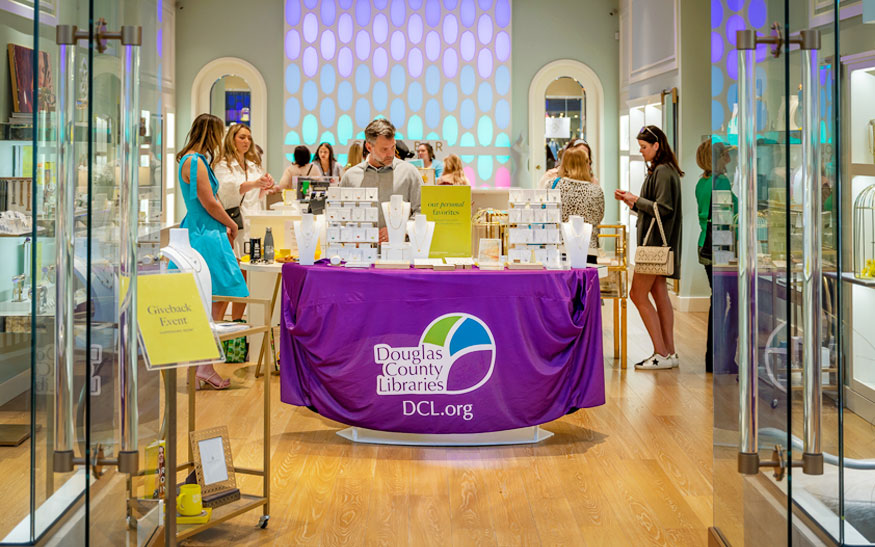
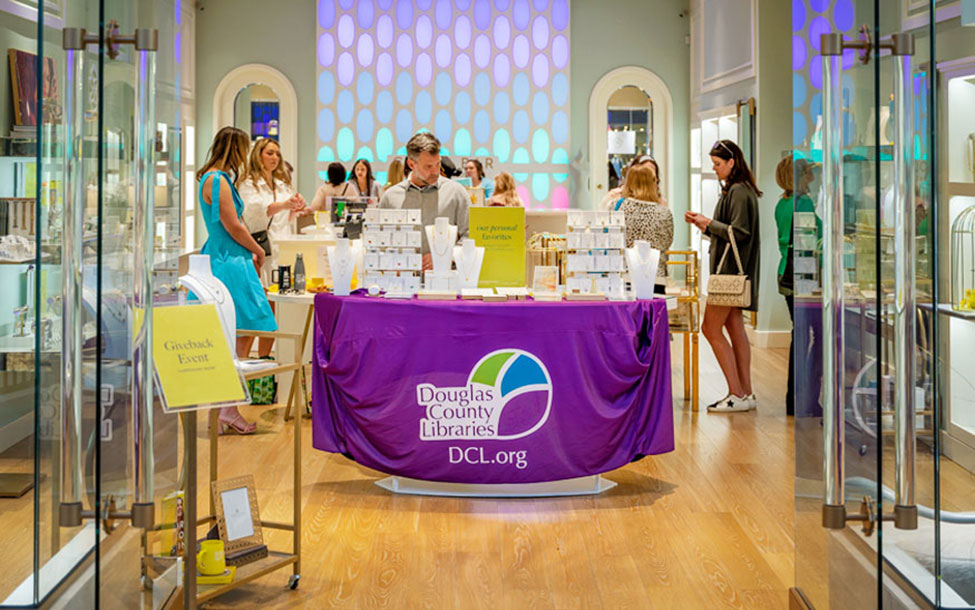
kendra scott event added

diff --git a/foundation/index.html b/foundation/index.html
@@ -1,5 +1,6 @@
 <!DOCTYPE html>
-<html lang="en"><!-- InstanceBegin template="/Templates/page.dwt" codeOutsideHTMLIsLocked="false" -->
+<html lang="en">
+<!-- InstanceBegin template="/Templates/page.dwt" codeOutsideHTMLIsLocked="false" -->
 <head>
 <meta charset="utf-8">
 <meta http-equiv="X-UA-Compatible" content="IE=edge">
@@ -475,12 +476,14 @@ height="0" width="0" style="display:none;visibility:hidden"></iframe>
       <div class="page-nav-item"><a href="#" type="button" data-toggle="modal" data-target="#contact-modal"><i class="pagenav-icon fa-solid fa-envelope"></i>Get in Touch</a></div>
     </div>
   </div>
-  <div class="row photo-wrapper-row">
+  <div id="kendra-scott" class="row photo-wrapper-row">
     <div class="photo-wrapper">
-      <div class="photo-item black text-center bg-gray-5"> <img class="img-responsive center-block" src="dolly-parton-library-of-congress.jpg" alt="Dolly Parton at the Library of Congress">
-        <div class="padding-30">
-          <div class="h3 black no-margin-top">Dolly Parton’s Imagination Library</div>
-          <div class="padding-bottom-15">Through our partnership with <a href="../imagination-library/">Dolly Parton’s Imagination Library</a>, Douglas County children from birth to age five can receive a free book each month, sent straight to their home, that they get to keep. Every eligible child in a family may participate and receive their own books, increasing the potential for learning success in school and encouraging a lifelong love of reading. </div>
+      <div class="photo-item black text-center bg-gray-5"> <img class="img-responsive center-block" src="kendra-scott-event.jpg" alt="Kendra Scott Event">
+        <div class="padding-30 max-width-80">
+          <div class="h3 black no-margin-top">Shop, Gift, Give Back</div>
+          <div class="padding-bottom-5">Shop Kendra Scott Jewelry for lasting gifts for Mother’s Day, graduation, and more&mdash;20% goes back to the DCL Foundation!</div>
+          <div class="padding-bottom-5">In-Store Park Meadows: May 4, 2-4PM</div>
+          <div class="padding-bottom-15">Online: May 4-5 only at <a href="https://www.kendrascott.com/" target="_blank">kendrascott.com</a> using code GIVEBACK-ILUVJ</div>
         </div>
       </div>
     </div>
@@ -504,6 +507,13 @@ height="0" width="0" style="display:none;visibility:hidden"></iframe>
           <div class="item-inner">
             <div class="h3 text-center">Cuddle Up & Read</div>
             <div>Through partnerships with area hospitals, <a href="../cuddle-up-and-read/">Cuddle Up & Read</a> provides new parents with a fun and meaningful introduction to the library and our early literacy services. The program includes small gifts for new parents and baby and an invitation to get baby a library card. We also distribute DCL growth charts, complete with reading suggestions and library service information, to parents through participating pediatricians’ offices across the county. </div>
+          </div>
+        </div>
+        <div class="item">
+          <div id=""><img class="img-responsive center-block" src="dolly-parton-with-children-cropped.jpg" alt="Dolly Parton with Children"></div>
+          <div class="item-inner">
+            <h3 class="text-center">Dolly Parton’s Imagination Library</h3>
+            <div>Through our partnership with <a href="../imagination-library/">Dolly Parton’s Imagination Library</a>, Douglas County children from birth to age five can receive a free book each month, sent straight to their home, that they get to keep. Every eligible child in a family may participate and receive their own books, increasing the potential for learning success in school and encouraging a lifelong love of reading. </div>
           </div>
         </div>
       </div>
@@ -747,4 +757,5 @@ e.async=true;var t=document.getElementsByTagName("script")[0];t.parentNode.inser
 </script> 
 <!-- End Patron Point -->
 </body>
-<!-- InstanceEnd --></html>
+<!-- InstanceEnd -->
+</html>

diff --git a/index.html b/index.html
@@ -97,43 +97,45 @@ width: calc(100% * 0.5);
 	margin: 0 auto;
 	padding: 0 15px 80px;
 }
-/* retro reads & readers theatre */
+/* kendra scott & readers theatre */
 	
-.icon-font.fa-sharp.fa-regular.fa-pen-to-square {
-	font-size: 80px;
-}
 .icon-font {
 	font-size: 100px;
 	padding-bottom: 30px;
 	color: #000;
 }
-.retro-charlotte-container {
+.icon-font-alt {
+	font-size: 100px;
+	padding: 14px 0 20px;
+	color: #000;
+}
+.scott-charlotte-container {
 	display: flex;
 	max-width: 1440px;
 	min-height: 400px;
 	margin: 30px auto 0 auto;
 }
-.retro-charlotte-wrapper {
+.scott-charlotte-wrapper {
 	margin: 0 auto;
 	display: flex;
 	width: 100%;
 }
-.retro-wrapper {
+.scott-wrapper {
 	display: flex;
 	background: #c4c28b;
 width: calc(100% * 0.5);
 	display: flex;
 	flex-direction: column;
-	padding: 80px 15px 60px;
+	padding: 65px 15px 60px;
 }
-.retro-content {
+.scott-content {
 	margin: 0 auto;
 	color: #000;
 	font-size: 20px;
 	text-align: center;
 	max-width: 650px;
 }
-.retro-heading-one {
+.scott-heading-one {
 	font-size: 30px;
 	line-height: 1;
 	margin: 0 0 10px;
@@ -141,11 +143,11 @@ width: calc(100% * 0.5);
 }
 .charlotte-wrapper {
 	display: flex;
-	background: #a5b696 url("spider.jpg") center top no-repeat;
+	background: #a5b696 url("spider.jpg") center -10px no-repeat;
 width: calc(100% * 0.5);
 	display: flex;
 	flex-direction: column;
-	padding: 213px 15px 60px;
+	padding: 198px 15px 60px;
 }
 .gardening-content {
 	margin: 0 auto;
@@ -287,13 +289,13 @@ width: calc(100% * 0.5);
 }
 
 @media (max-width: 950px) {
-.eh-garden-container, .retro-charlotte-container, .authors-container, .garden-container {
+.eh-garden-container, .scott-charlotte-container, .authors-container, .garden-container {
 	max-width: 720px;
 }
-.eh-garden-wrapper, .retro-charlotte-wrapper, .authors-wrapper, .garden-wrapper {
+.eh-garden-wrapper, .scott-charlotte-wrapper, .authors-wrapper, .garden-wrapper {
 	flex-direction: column;
 }
-.eh-wrapper, .garden-wrapper, .retro-wrapper, .charlotte-wrapper, .authors-info, .authors-image, .authors-content {
+.eh-wrapper, .garden-wrapper, .scott-wrapper, .charlotte-wrapper, .authors-info, .authors-image, .authors-content {
 	width: 100%;
 }
 .authors-image {
@@ -306,7 +308,7 @@ width: calc(100% * 0.5);
 .garden-wrapper, .charlotte-wrapper {
 	margin-top: 30px;
 }
-.retro-wrapper {
+.scott-wrapper {
 	padding: 60px 15px 80px;
 }
 .charlotte-wrapper {
@@ -559,13 +561,13 @@ height="0" width="0" style="display:none;visibility:hidden"></iframe>
         </div>
       </div>
     </div>
-    <div class="retro-charlotte-container">
-      <div class="retro-charlotte-wrapper">
-        <div class="retro-wrapper">
-          <div class="retro-content">
-            <div><i class="icon-font fa-solid fa-computer-classic"></i></div>
-            <div class="retro-heading-one">Retro Reads</div>
-            <div>Have a blast in the past! <a class="black text-underline" href="https://dcl.bibliocommons.com/list/share/692278051_dcladults/2707627547">Check these out</a>.</div>
+    <div class="scott-charlotte-container">
+      <div class="scott-charlotte-wrapper">
+        <div class="scott-wrapper">
+          <div class="scott-content">
+            <div><i class="icon-font-alt fa-light fa-gem"></i></div>
+            <div class="scott-heading-one">Shop, Gift, Give Back</div>
+            <div>Shop Kendra Scott Jewelry May 4-5 for Mother's Day, graduation, and more&mdash;20% goes back to the DCL Foundation! <a class="black text-underline" href="foundation/#kendra-scott">Learn More</a></div>
           </div>
         </div>
         <div class="charlotte-wrapper">
